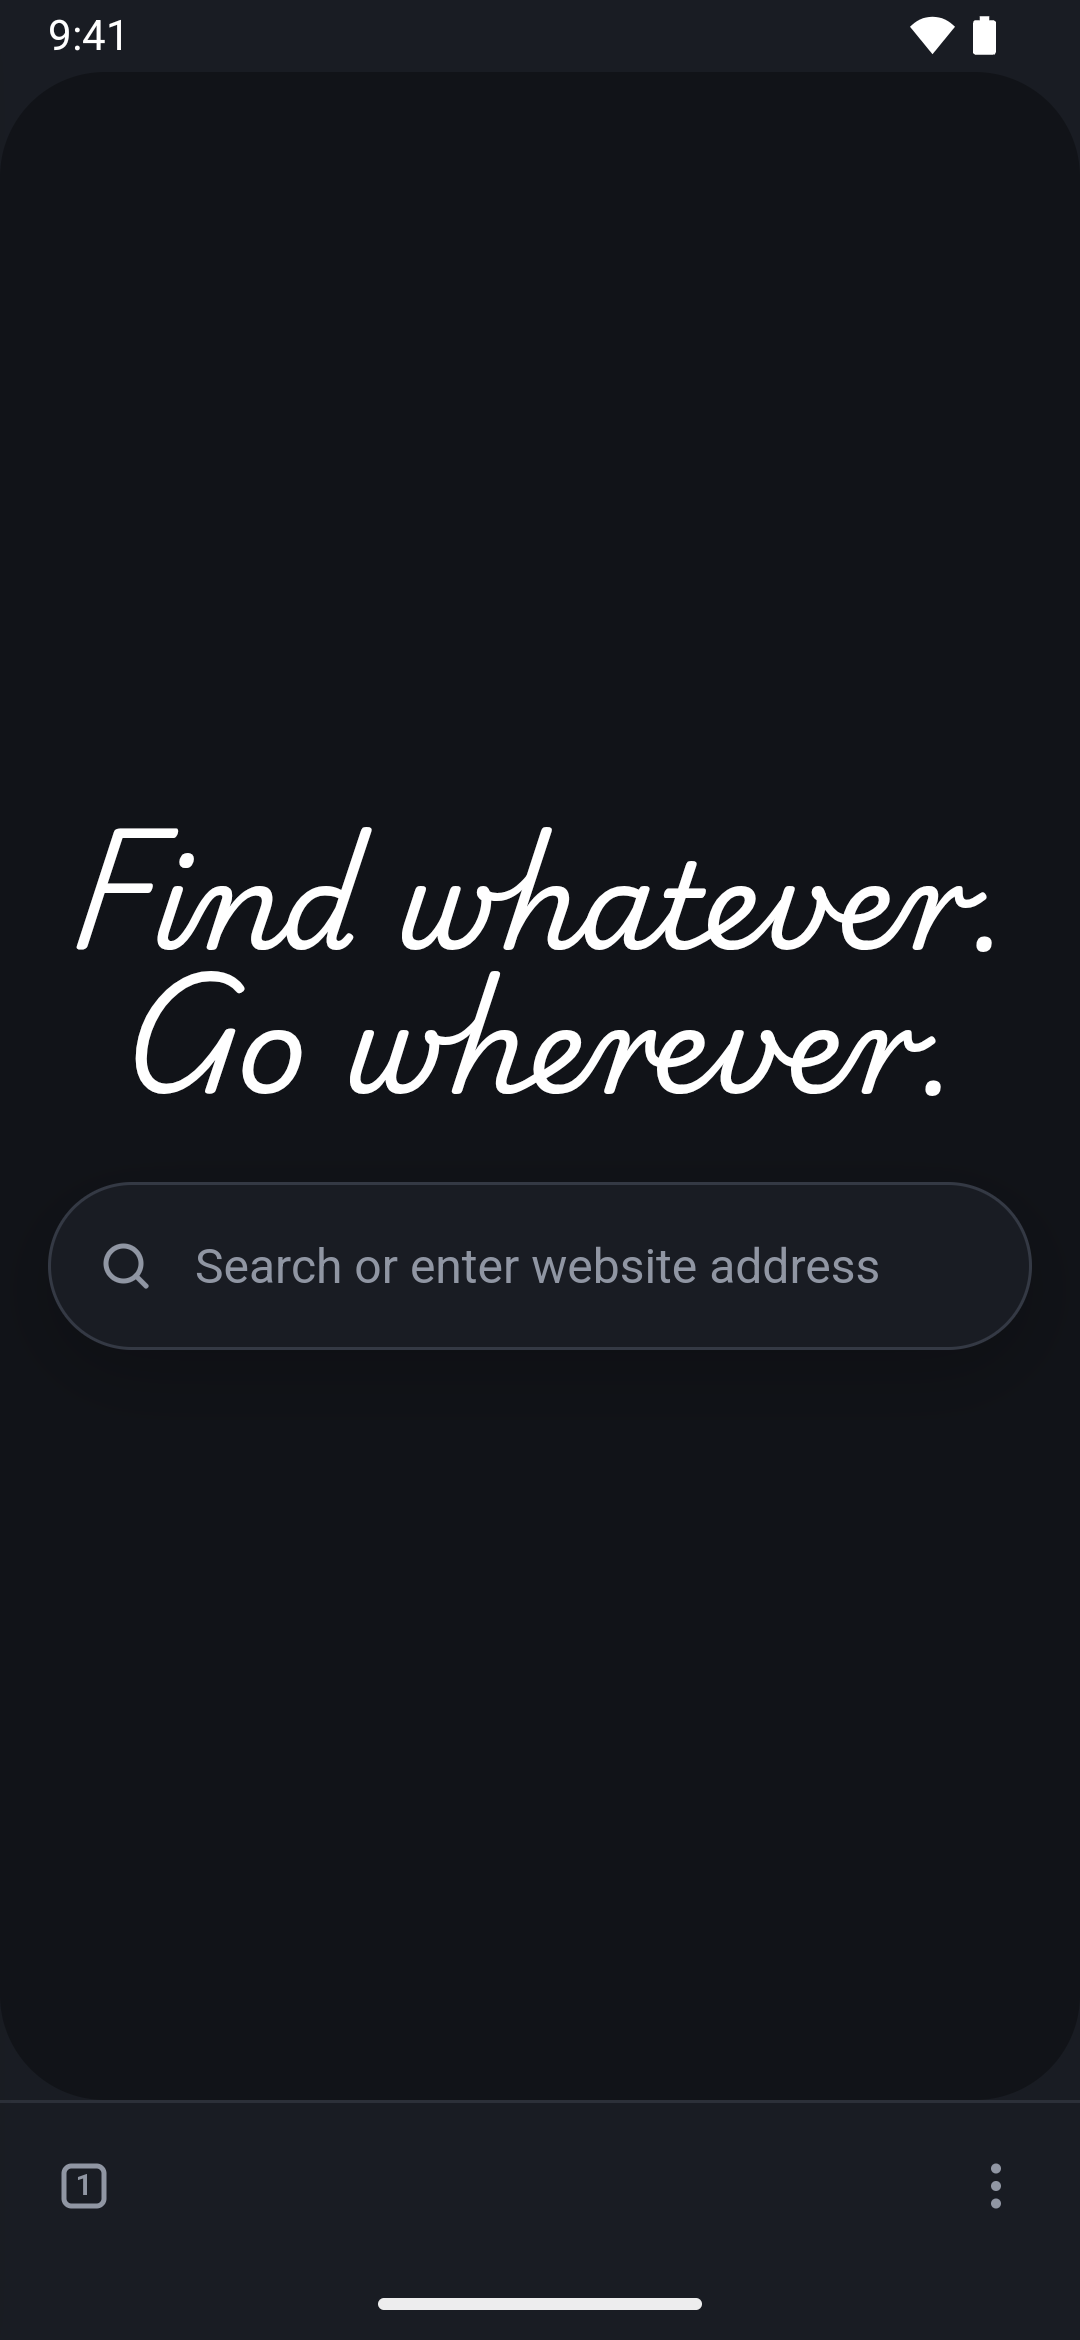
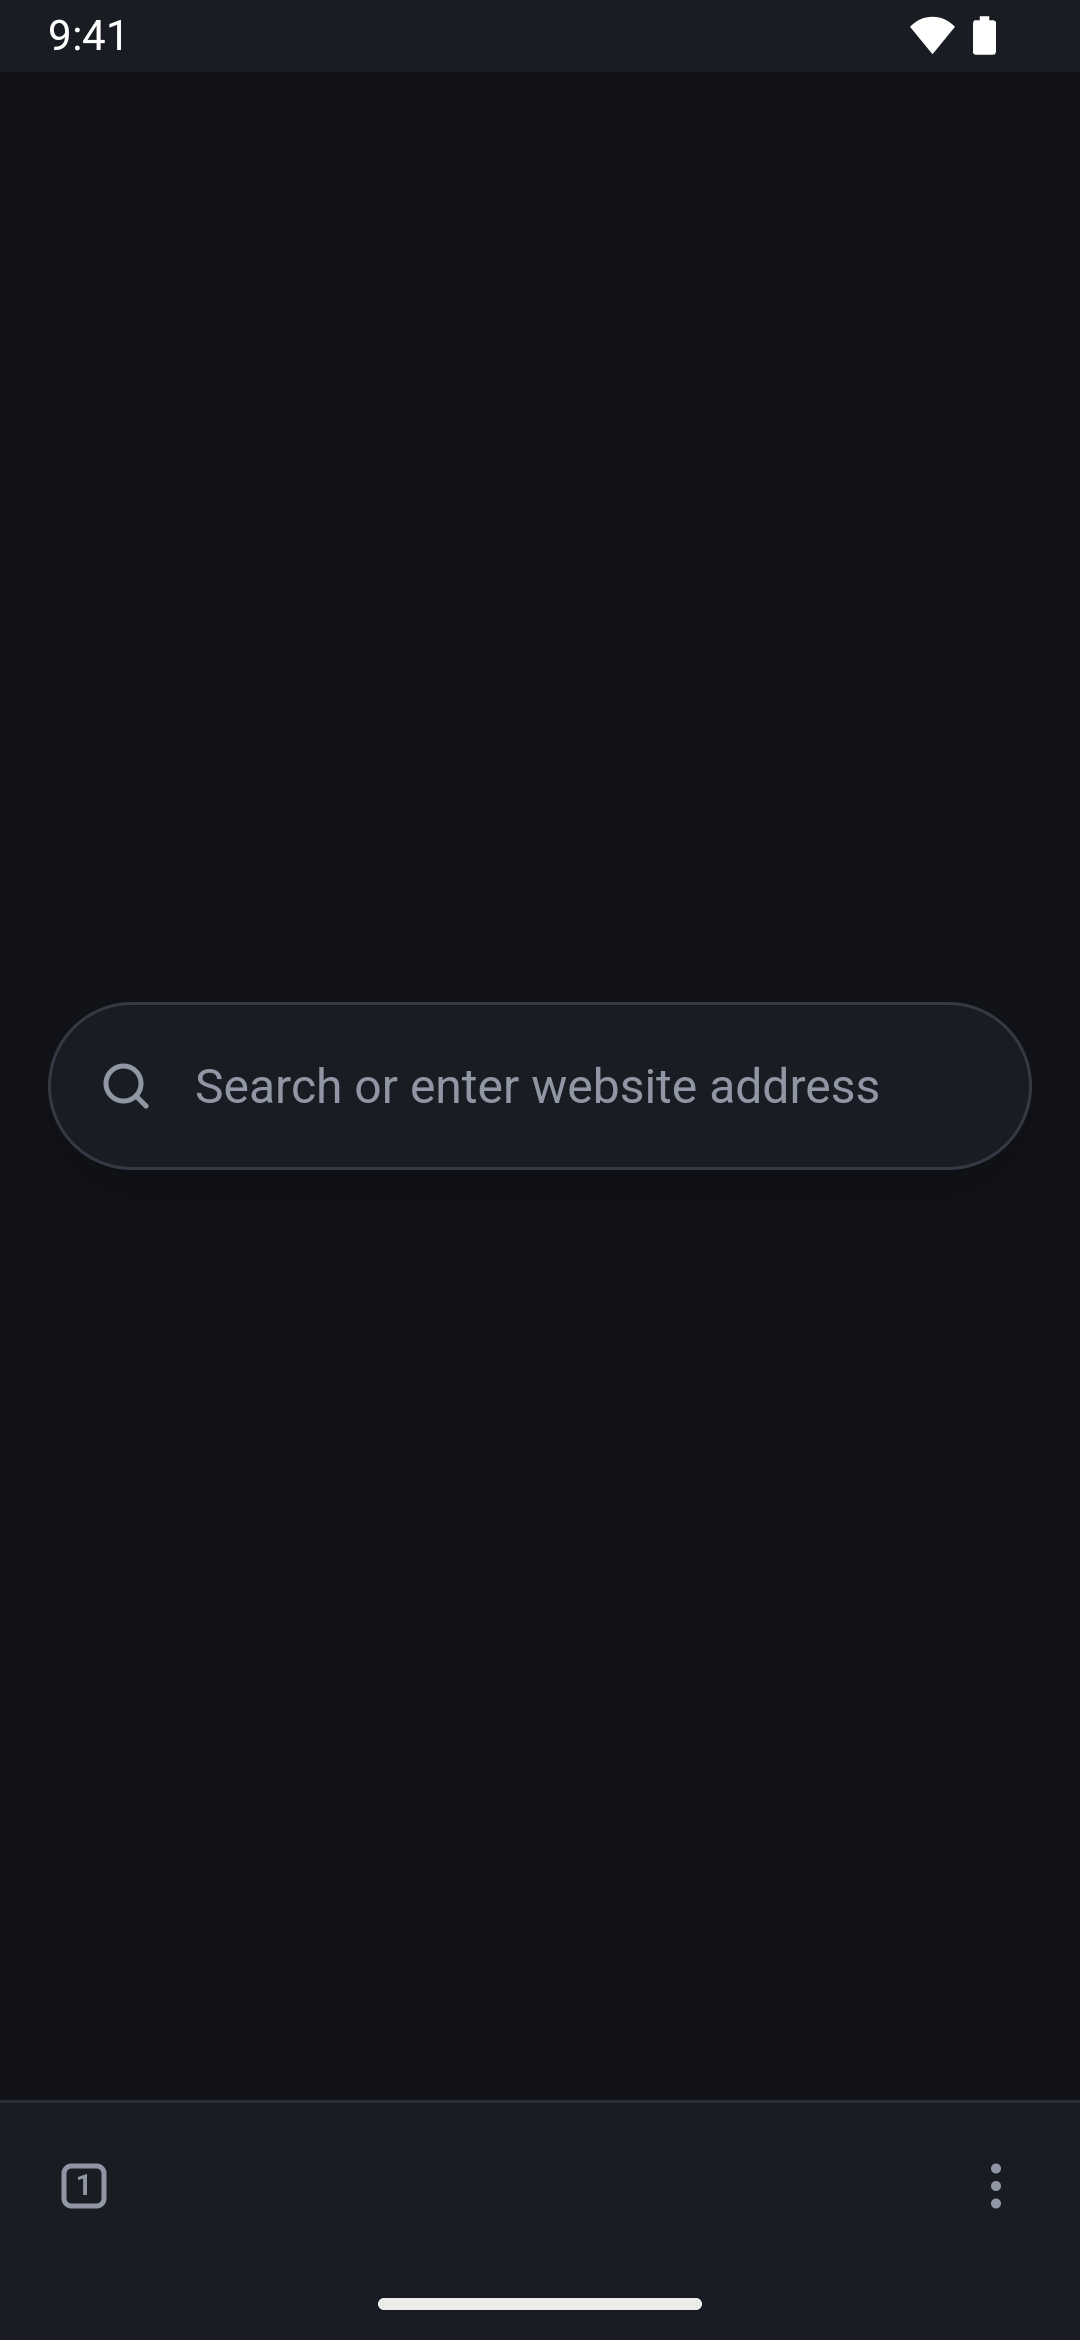
Phone: no new tab headline, square page corners
The new tab page is just the search bar (and no longer loads a web font),
and the web page fills the screen edge to edge without rounded corners.

diff --git a/phone.html b/phone.html
@@ -8,7 +8,7 @@
     />
     <meta
       http-equiv="Content-Security-Policy"
-      content="default-src 'self'; script-src 'self'; img-src 'self' data: https: http:; style-src 'self' 'unsafe-inline' https://fonts.googleapis.com; font-src https://fonts.gstatic.com"
+      content="default-src 'self'; script-src 'self'; img-src 'self' data: https: http:; style-src 'self' 'unsafe-inline'; font-src 'self'"
     />
     <title>Terra</title>
     <!-- Terra for Android: the same UI as index.html, laid out for a phone
@@ -18,12 +18,6 @@
         visibility: hidden;
       }
     </style>
-    <link rel="preconnect" href="https://fonts.googleapis.com" />
-    <link rel="preconnect" href="https://fonts.gstatic.com" crossorigin />
-    <link
-      rel="stylesheet"
-      href="https://fonts.googleapis.com/css2?family=Playwrite+AU+VIC&display=swap"
-    />
   </head>
   <body class="starting">
     <!-- The window's soft gradients, drawn dithered by ui-backdrop.ts. -->
@@ -37,7 +31,6 @@
         <div id="page-glow" aria-hidden="true"></div>
         <section id="start-page" hidden>
           <div class="start-inner">
-            <h1 class="start-title">Find whatever. Go wherever.</h1>
             <form id="start-form" autocomplete="off">
               <svg
                 class="icon start-icon"

diff --git a/src/phone/phone.css b/src/phone/phone.css
@@ -20,6 +20,8 @@
   --icon-sm: 16px;
   /* The tabs drawer and the settings list: the sidebar, one step wider. */
   --sidebar-full: 320px;
+  /* The web page fills the width edge to edge: square corners. */
+  --radius-page: 0px;
   --text-md: 14px;
   /* Dims the page under drawers and sheets. */
   --scrim: rgba(0, 0, 0, 0.4);
@@ -334,10 +336,6 @@ body.start-open #address {
   padding: var(--space-6) var(--space-4);
   border-radius: var(--radius-page);
   overflow: hidden;
-}
-
-.start-title {
-  text-wrap: balance;
 }
 
 #start-form {

diff --git a/.claude/CLAUDE.md b/.claude/CLAUDE.md
@@ -73,9 +73,8 @@ exactly 8px above and below them.
 - `--radius-lg` 12: cards
 - `--radius-full`: only for things that are round by nature (switches,
   color swatches, the new-tab search pill)
-- `--radius-page` 35: the web page's corners, a rounded card above the
-  toolbar. The owner's choice and the one value off the 4px grid; the
-  desktop uses the same.
+- `--radius-page` 0 on the phone (35 on the desktop): the web page has
+  square corners, edge to edge above the toolbar.
 - A shape inside another uses `outer radius - padding` so curves stay parallel.
 
 ### 4. Shared axes and lines
@@ -98,7 +97,7 @@ exactly 8px above and below them.
 
 - Only these sizes: 10 (letter badges only), 12 (secondary text, labels),
   14 (all normal UI text on the phone, `--text-md`), 16 (new-tab search),
-  24 (page titles), 40 (new-tab headline only, in Playwrite AU VIC).
+  24 (page titles). No new-tab headline on the phone.
 - Only two weights: 400 and 600.
 
 ### 7. Color and motion

diff --git a/README.md b/README.md
@@ -15,7 +15,7 @@
 </p>
 
 <p align="center">
-  <img src="docs/phone.png" width="300" alt="Terra on a phone: the new tab page with the search bar and the toolbar at the bottom" />
+  <img src="docs/phone.png" width="300" alt="Terra on a phone: the new tab page with just a search bar, and the toolbar at the bottom" />
 </p>
 
 The phone version of [Terra](https://github.com/ttttima/Terra-Browser): the same
